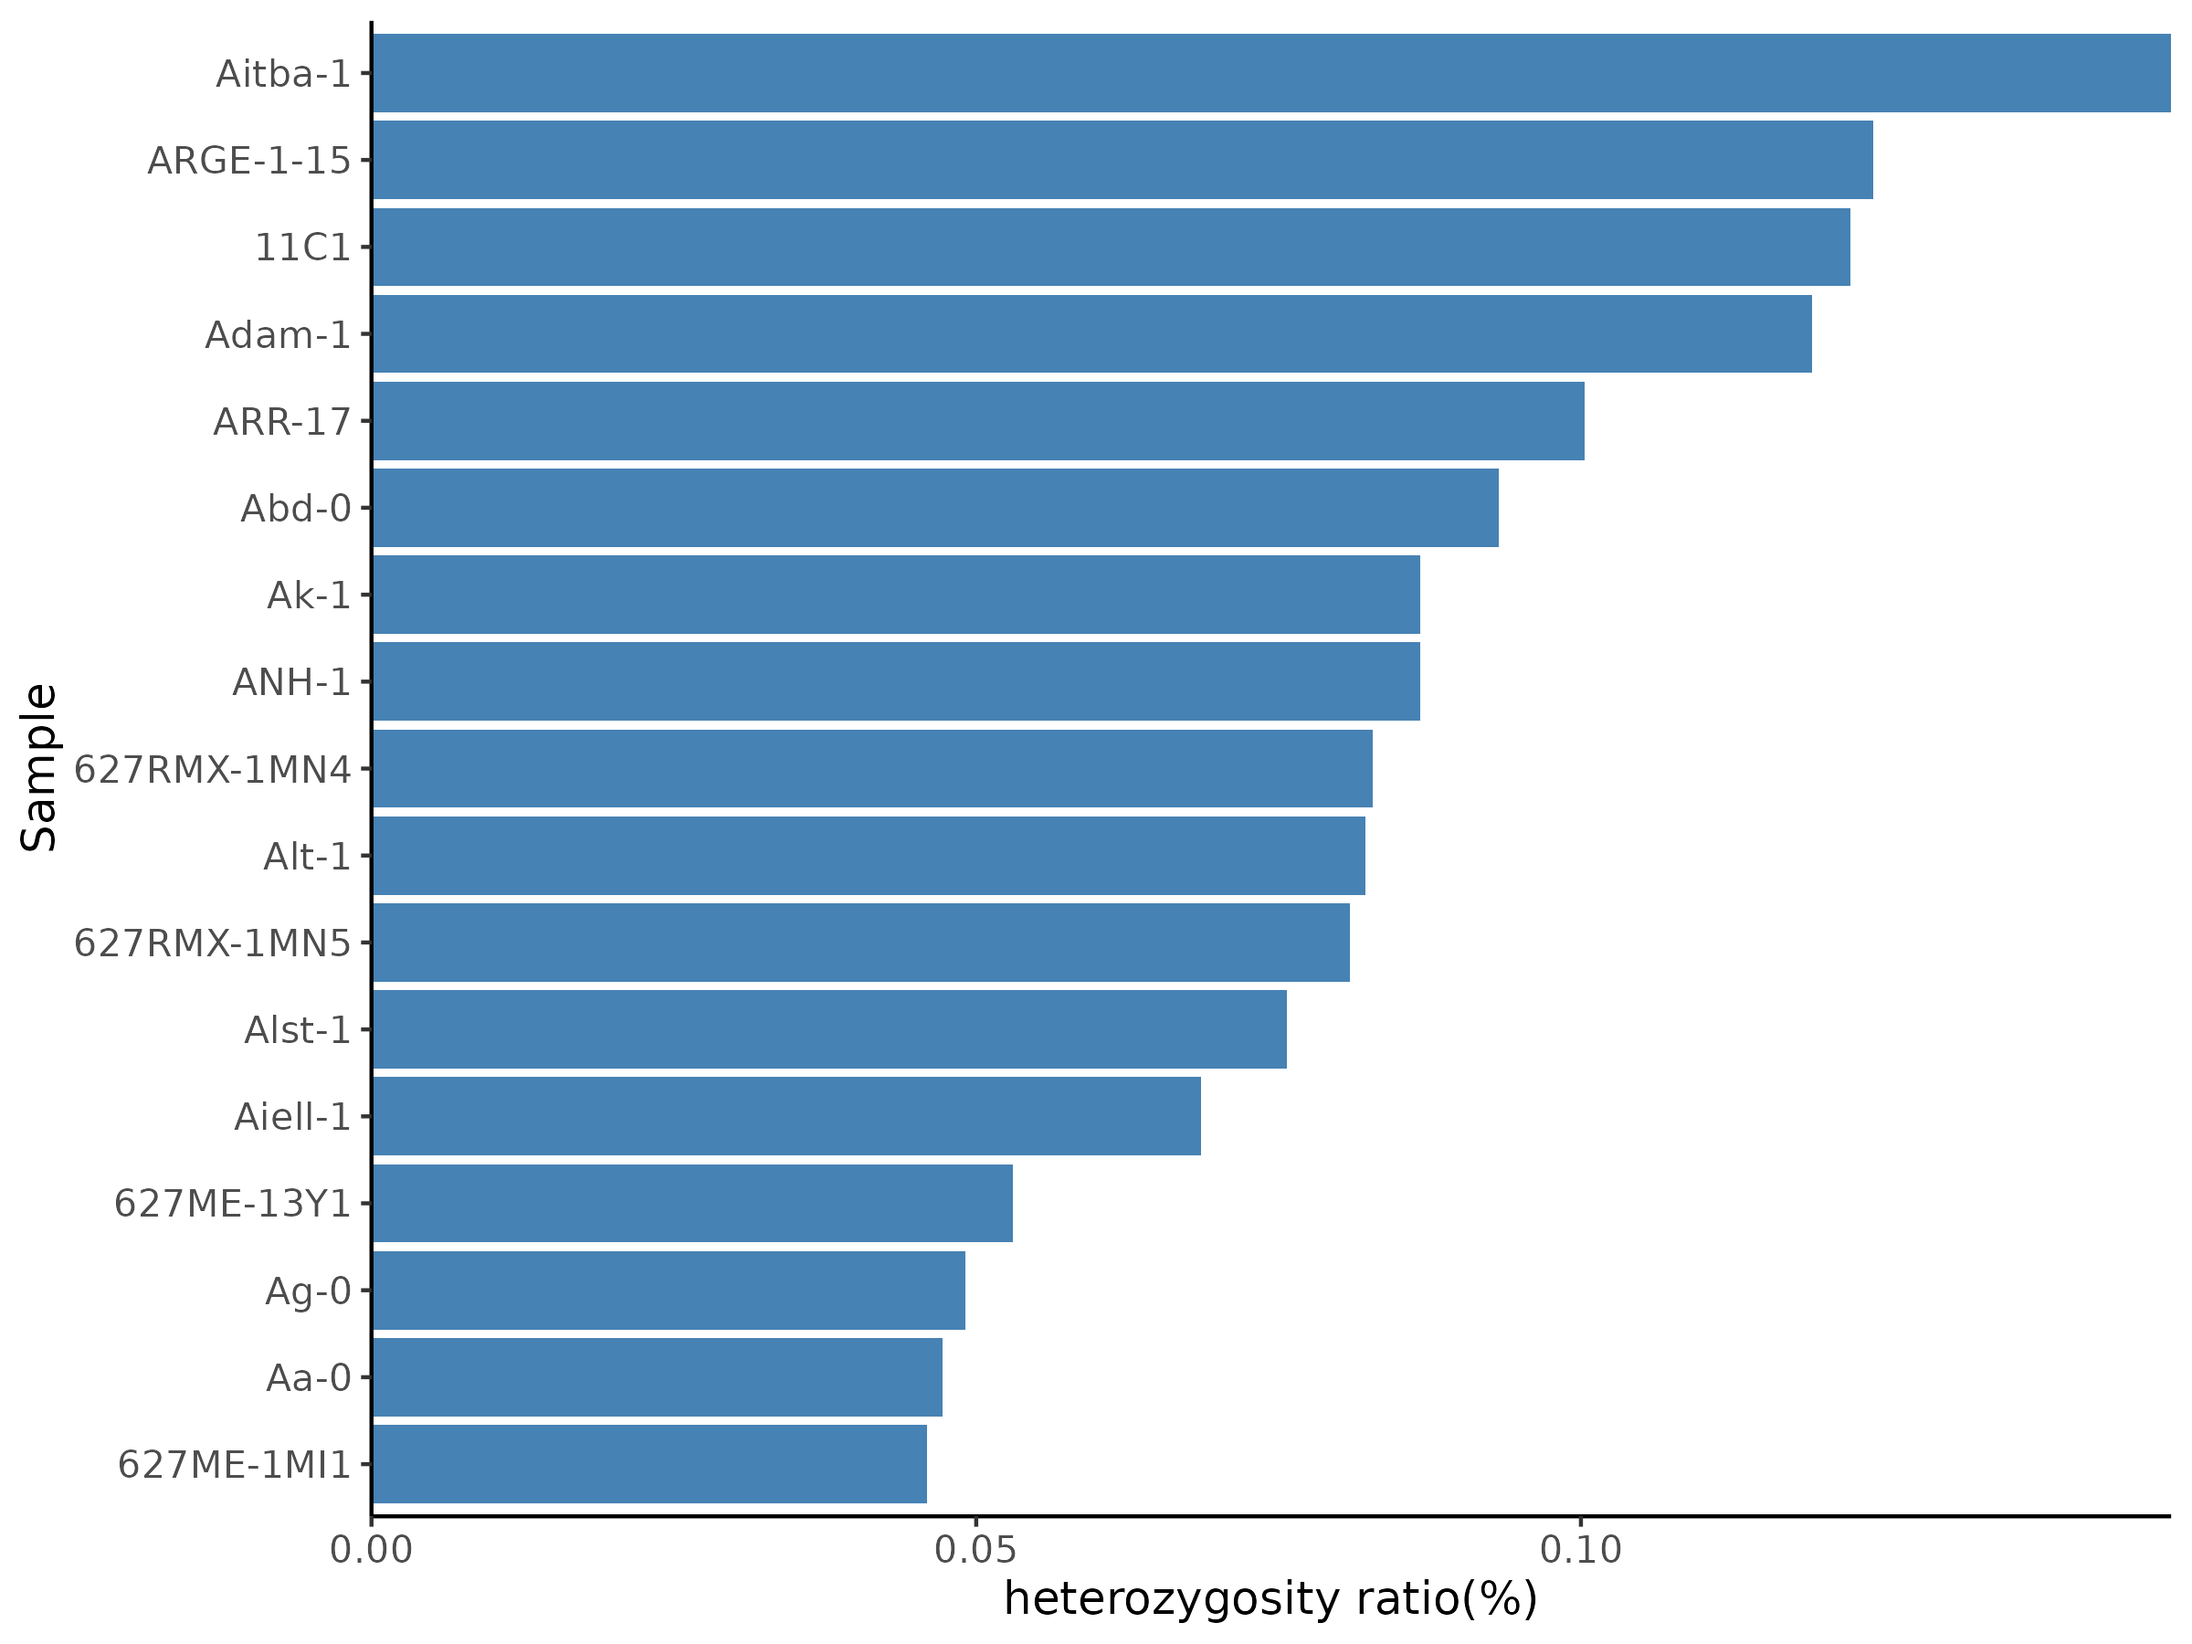
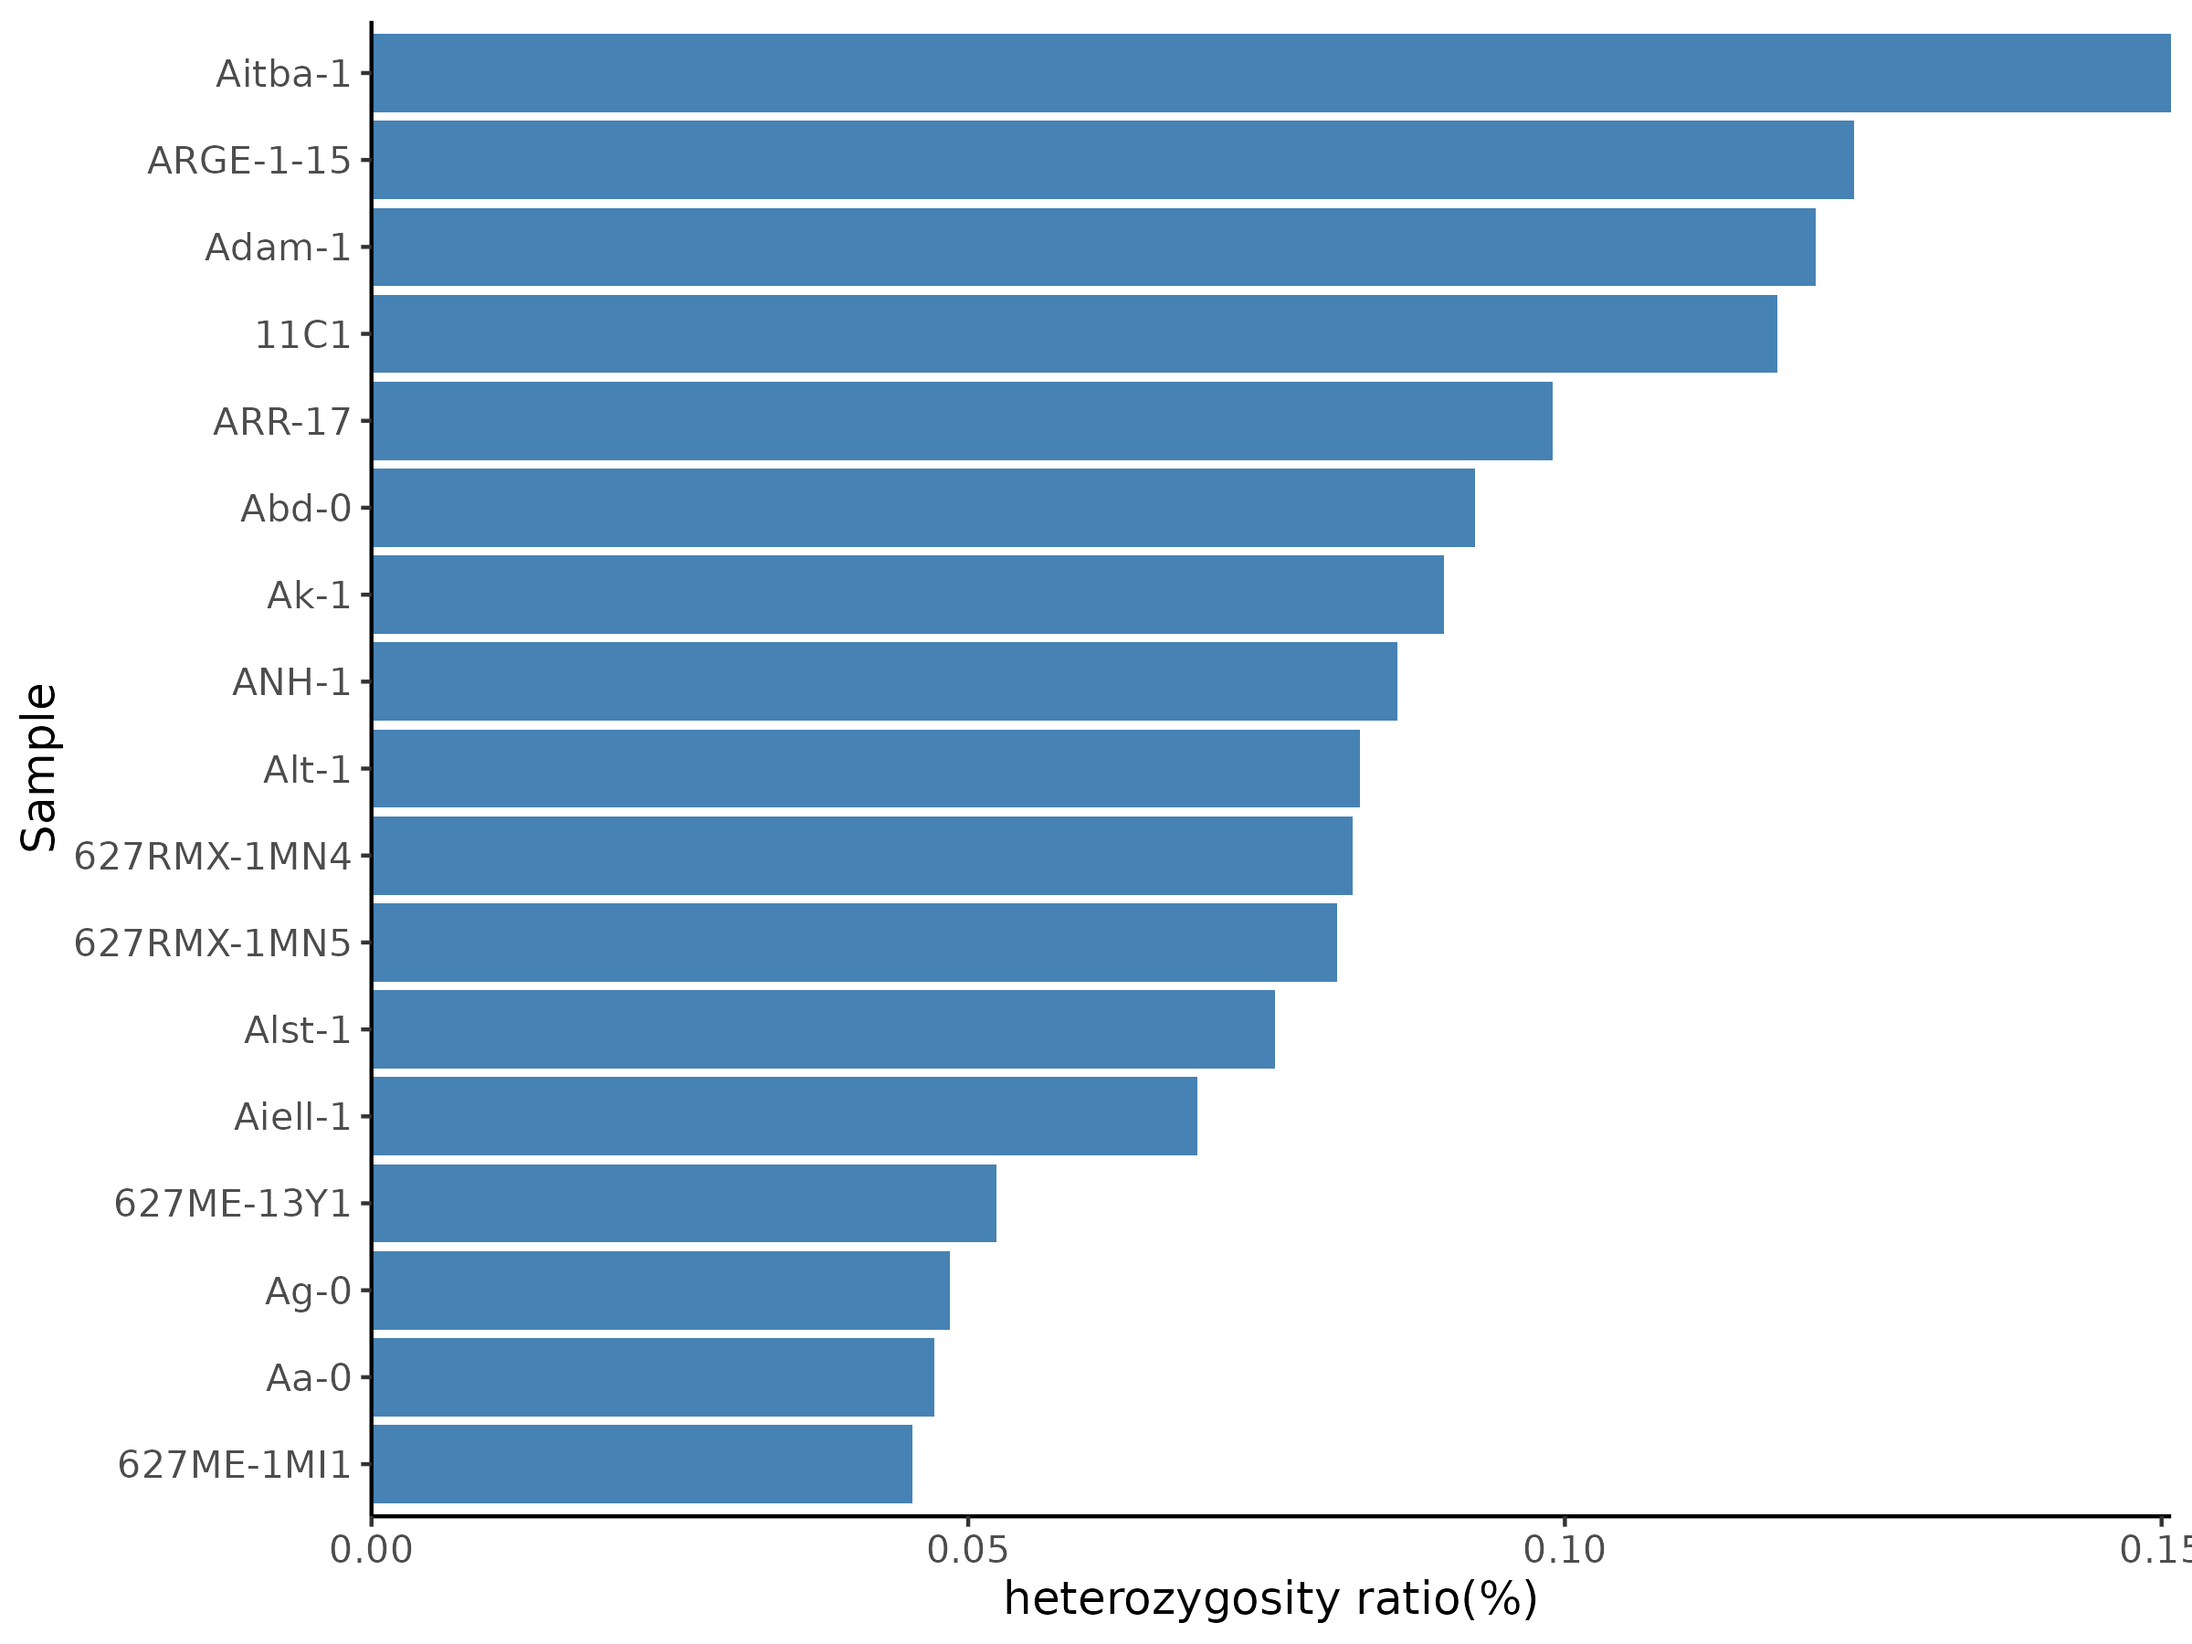
modified

diff --git a/progeny_heterozygosity.md b/progeny_heterozygosity.md
@@ -58,7 +58,7 @@ cat ena_info.ascp.sh |
 ```
 cd ~/data/plastid/Atha_cross/
 
-export FOLD=2
+export FOLD=8
 export GENOME_SIZE=$(
     cat ~/data/plastid/genome/col0/chr.sizes |
         tsv-summarize --sum 2
@@ -247,13 +247,15 @@ cat header.txt F2_GT_matrix.tsv > F2_GT_matrix_with_header.tsv
 GENOME_SIZE=154478
 total_samples=$(cat ../opts.tsv | grep -Ev "^Sample_Col_G$|^Sample_Ler_XL_4$" | wc -l)
 current=1
-> sample_ratio_summary.tsv
-echo -e "Sample\tColRatio\tColGenome\tLerRatio\tLerGenome\tMutRatio\tMutGenome" > sample_ratio_summary.tsv
 
-
-
-cat ../opts.tsv | grep -Ev "^Sample_Col_G$|^Sample_Ler_XL_4$" | while read -r line; do
+> sample_ratio_tmp.tsv
+cat ../opts.tsv | while read -r line; do
     sample=$(echo "$line" | cut -f1)
+
+    if [[ "$sample" == "Sample_Col_G" || "$sample" == "Sample_Ler_XL_4" ]]; then
+        continue
+    fi
+
     target_col=$((current + 2))
 
     echo "[$current/$total_samples] 正在处理样本 $sample，列号 $target_col"
@@ -299,11 +301,13 @@ cat ../opts.tsv | grep -Ev "^Sample_Col_G$|^Sample_Ler_XL_4$" | while read -r li
                 printf("%s\tNA\tNA\tNA\tNA\tNA\tNA\n", sample)
             }
         }
-    ' F2_GT_matrix_with_header.tsv >> sample_ratio_summary.tsv
+    ' F2_GT_matrix_with_header.tsv >> sample_ratio_tmp.tsv
 
     current=$((current + 1))
 done
 
+echo -e "Sample\tColRatio\tColGenome\tLerRatio\tLerGenome\tMutRatio\tMutGenome" > sample_ratio_summary.tsv
+cat sample_ratio_tmp.tsv >> sample_ratio_summary.tsv
 
 echo -e "| 样本名称 | Col型比例(%) | Col基因组占比(%) | Ler型比例(%) | Ler基因组占比(%) | 突变型比例(%) | 突变基因组占比(%) |" > sample_ratio_summary.md
 echo -e "| --- | --- | --- | --- | --- | --- | --- |" >> sample_ratio_summary.md
@@ -316,14 +320,14 @@ tail -n +2 sample_ratio_summary.tsv | awk -F'\t' '{
 | --- | --- | --- | --- | --- | --- | --- |
 | Sample_14 | 100.0000 | 0.002589 | 0.0000 | 0.000000 | 0.0000 | 0.000000 |
 | Sample_18 | 100.0000 | 0.002589 | 0.0000 | 0.000000 | 0.0000 | 0.000000 |
-| Sample_19 | 50.0000 | 0.000647 | 0.0000 | 0.000000 | 50.0000 | 0.000647 |
+| Sample_19 | 75.0000 | 0.001942 | 0.0000 | 0.000000 | 25.0000 | 0.000647 |
 | Sample_20 | 100.0000 | 0.001295 | 0.0000 | 0.000000 | 0.0000 | 0.000000 |
 | Sample_21 | 66.6667 | 0.001295 | 0.0000 | 0.000000 | 33.3333 | 0.000647 |
 | Sample_4 | 100.0000 | 0.001942 | 0.0000 | 0.000000 | 0.0000 | 0.000000 |
 | Sample_5 | 100.0000 | 0.002589 | 0.0000 | 0.000000 | 0.0000 | 0.000000 |
 | Sample_6 | 0.0000 | 0.000000 | 100.0000 | 0.000647 | 0.0000 | 0.000000 |
 | Sample_7 | 75.0000 | 0.001942 | 0.0000 | 0.000000 | 25.0000 | 0.000647 |
-| Sample_8 | 100.0000 | 0.001295 | 0.0000 | 0.000000 | 0.0000 | 0.000000 |
+| Sample_8 | 100.0000 | 0.001942 | 0.0000 | 0.000000 | 0.0000 | 0.000000 |
 | Sample_c1c2 | 100.0000 | 0.002589 | 0.0000 | 0.000000 | 0.0000 | 0.000000 |
 | Sample_c41 | 100.0000 | 0.003237 | 0.0000 | 0.000000 | 0.0000 | 0.000000 |
 | Sample_c42 | 66.6667 | 0.001295 | 0.0000 | 0.000000 | 33.3333 | 0.000647 |
@@ -331,23 +335,23 @@ tail -n +2 sample_ratio_summary.tsv | awk -F'\t' '{
 | Sample_c47 | 100.0000 | 0.001295 | 0.0000 | 0.000000 | 0.0000 | 0.000000 |
 | Sample_c48 | 80.0000 | 0.002589 | 0.0000 | 0.000000 | 20.0000 | 0.000647 |
 | Sample_c51 | 100.0000 | 0.001295 | 0.0000 | 0.000000 | 0.0000 | 0.000000 |
-| Sample_c52 | 100.0000 | 0.003237 | 0.0000 | 0.000000 | 0.0000 | 0.000000 |
+| Sample_c52 | 100.0000 | 0.003884 | 0.0000 | 0.000000 | 0.0000 | 0.000000 |
 | Sample_c54 | 100.0000 | 0.002589 | 0.0000 | 0.000000 | 0.0000 | 0.000000 |
-| Sample_c57 | 100.0000 | 0.001295 | 0.0000 | 0.000000 | 0.0000 | 0.000000 |
-| Sample_c61 | 80.0000 | 0.002589 | 0.0000 | 0.000000 | 20.0000 | 0.000647 |
-| Sample_c62 | 100.0000 | 0.000647 | 0.0000 | 0.000000 | 0.0000 | 0.000000 |
+| Sample_c57 | 100.0000 | 0.001942 | 0.0000 | 0.000000 | 0.0000 | 0.000000 |
+| Sample_c61 | 83.3333 | 0.003237 | 0.0000 | 0.000000 | 16.6667 | 0.000647 |
+| Sample_c62 | 50.0000 | 0.000647 | 0.0000 | 0.000000 | 50.0000 | 0.000647 |
 | Sample_c63 | 100.0000 | 0.002589 | 0.0000 | 0.000000 | 0.0000 | 0.000000 |
-| Sample_c64 | 80.0000 | 0.002589 | 0.0000 | 0.000000 | 20.0000 | 0.000647 |
-| Sample_c65 | 0.0000 | 0.000000 | 50.0000 | 0.000647 | 50.0000 | 0.000647 |
+| Sample_c64 | 75.0000 | 0.001942 | 0.0000 | 0.000000 | 25.0000 | 0.000647 |
+| Sample_c65 | 33.3333 | 0.000647 | 33.3333 | 0.000647 | 33.3333 | 0.000647 |
 | Sample_c66 | 100.0000 | 0.001942 | 0.0000 | 0.000000 | 0.0000 | 0.000000 |
-| Sample_c73 | 75.0000 | 0.001942 | 0.0000 | 0.000000 | 25.0000 | 0.000647 |
-| Sample_c81 | 100.0000 | 0.002589 | 0.0000 | 0.000000 | 0.0000 | 0.000000 |
+| Sample_c73 | 80.0000 | 0.002589 | 0.0000 | 0.000000 | 20.0000 | 0.000647 |
+| Sample_c81 | 100.0000 | 0.001942 | 0.0000 | 0.000000 | 0.0000 | 0.000000 |
 | Sample_c82 | 100.0000 | 0.000647 | 0.0000 | 0.000000 | 0.0000 | 0.000000 |
 | Sample_c83 | 50.0000 | 0.000647 | 0.0000 | 0.000000 | 50.0000 | 0.000647 |
-| Sample_c84 | 100.0000 | 0.001295 | 0.0000 | 0.000000 | 0.0000 | 0.000000 |
+| Sample_c84 | 100.0000 | 0.001942 | 0.0000 | 0.000000 | 0.0000 | 0.000000 |
 | Sample_c85 | 100.0000 | 0.002589 | 0.0000 | 0.000000 | 0.0000 | 0.000000 |
 | Sample_c87 | 80.0000 | 0.002589 | 0.0000 | 0.000000 | 20.0000 | 0.000647 |
-| Sample_c88 | 100.0000 | 0.001942 | 0.0000 | 0.000000 | 0.0000 | 0.000000 |
+| Sample_c88 | 100.0000 | 0.002589 | 0.0000 | 0.000000 | 0.0000 | 0.000000 |
 | Sample_c89 | 0.0000 | 0.000000 | 0.0000 | 0.000000 | 100.0000 | 0.000647 |
 | Sample_c90 | 100.0000 | 0.001295 | 0.0000 | 0.000000 | 0.0000 | 0.000000 |
 | Sample_c91 | 100.0000 | 0.000647 | 0.0000 | 0.000000 | 0.0000 | 0.000000 |
@@ -359,7 +363,6 @@ tail -n +2 sample_ratio_summary.tsv | awk -F'\t' '{
 | Sample_l2l3 | 5.7692 | 0.001942 | 80.7692 | 0.027188 | 13.4615 | 0.004531 |
 | Sample_l4c1 | 2.0000 | 0.000647 | 90.0000 | 0.029130 | 8.0000 | 0.002589 |
 | Sample_l4l3 | 7.4074 | 0.002589 | 83.3333 | 0.029130 | 9.2593 | 0.003237 |
-
 ```
 library(ggplot2)
 library(tidyr)

diff --git a/Brassicaceae/Atha_cross.md b/Brassicaceae/Atha_cross.md
@@ -644,6 +644,92 @@ awk -v OFS='\t' '
     }
 ' F2_GT_matrix_with_header.tsv
 ```
+```
+total_samples=$(cat ../opts.tsv | grep -Ev "^Sample_Col_G$|^Sample_Ler_XL_4$" | wc -l)
+current=1
+
+cat ../opts.tsv | grep -Ev "^Sample_Col_G$|^Sample_Ler_XL_4$" | while read -r line; do
+    sample=$(echo "$line" | cut -f1)
+    target_col=$((current + 2))  # 列号 = 样本序号 + 2 (跳过CHROM和POS列)
+    
+    echo "[$current/$total_samples] 正在处理样本 $sample，列号 $target_col"
+    
+    awk -v OFS='\t' -v target_col="$target_col" -v sample_name="$sample" '
+        BEGIN {
+            while ((getline < "informative_sites.tsv") > 0) {
+                key = $1":"$2
+                col_gt[key] = $5
+                ler_gt[key] = $6
+            }
+
+            count_col = count_ler = count_mut = total = 0
+            print "CHROM_POS", sample_name > "classification_matrix_" sample_name ".tsv"
+        }
+
+        NR > 1 {
+            key = $1":"$2
+            gt = $target_col
+            col = col_gt[key]
+            ler = ler_gt[key]
+            
+            if (gt == "./.") {
+                label = "NA"
+                print key, label >> "classification_matrix_" sample_name ".tsv"
+                next
+            }
+            
+            if (gt == col) {
+                label = "Col"
+                count_col++
+            } else if (gt == ler) {
+                label = "Ler"
+                count_ler++
+            } else {
+                label = "Mut"
+                count_mut++
+            }
+            
+            total++
+            print key, label >> "classification_matrix_" sample_name ".tsv"
+        }
+
+        END {
+            print "来源分类比例：" > "summary_" sample_name ".txt"
+            if (total > 0) {
+                print "Col型\t" count_col "\t" count_col / total * 100 "%" >> "summary_" sample_name ".txt"
+                print "Ler型\t" count_ler "\t" count_ler / total * 100 "%" >> "summary_" sample_name ".txt"
+                print "突变型\t" count_mut "\t" count_mut / total * 100 "%" >> "summary_" sample_name ".txt"
+            } else {
+                print "无有效基因型参与分类" >> "summary_" sample_name ".txt"
+            }
+        }
+    ' F2_GT_matrix_with_header.tsv
+    
+    current=$((current + 1))
+done
+
+echo -e "样本名称\tCol型比例(%)\tLer型比例(%)\t突变型比例(%)" > sample_ratio_summary.tsv
+samples=$(cat ../opts.tsv | cut -f1 | grep -Ev "^Sample_Col_G$|^Sample_Ler_XL_4$")
+
+for sample in $samples; do
+    if [ -f "summary_${sample}.txt" ]; then
+        col_ratio=$(grep "Col型" "summary_${sample}.txt" | awk '{print $3}')
+        ler_ratio=$(grep "Ler型" "summary_${sample}.txt" | awk '{print $3}')
+        mut_ratio=$(grep "突变型" "summary_${sample}.txt" | awk '{print $3}')
+        
+        echo -e "$sample\t$col_ratio\t$ler_ratio\t$mut_ratio" >> sample_ratio_summary.tsv
+    else
+        echo "警告: 样本 $sample 的统计文件不存在，跳过"
+    fi
+done
+
+echo -e "| 样本名称 | Col型比例(%) | Ler型比例(%) | 突变型比例(%) |" > sample_ratio_summary.md
+echo -e "| --- | --- | --- | --- |" >> sample_ratio_summary.md
+
+tail -n +2 sample_ratio_summary.tsv | awk -F'\t' '{
+    printf("| %s | %s | %s | %s |\n", $1, $2, $3, $4);
+}' >> sample_ratio_summary.md
+```
 ## rdp4 analysis
 ```
 bcftools consensus -f c44/1_genome/genome.fa c44/3_gatk/R.filtered.vcf.gz > c44_chrC.fa

diff --git a/wild_Arabidopsis_heterogeneity.md b/wild_Arabidopsis_heterogeneity.md
@@ -111,7 +111,7 @@ rsync -avP \
 ```
 # Symlink
 ```
-export FOLD=2
+export FOLD=8
 export GENOME_SIZE=$(
     cat ~/data/plastid/genome/col0/chr.sizes |
         tsv-summarize --sum 2
@@ -209,12 +209,13 @@ cat opts.tsv |
         bsub -q mpi -n 24 -J "{1}" "
             bash 0_script/2_fastqc.sh
             bash 0_script/2_insert_size.sh
-            bash 0_script/2_kat.sh
+            bash 0_script/2_fastk.sh
             bash 0_script/2_trim.sh
             bash 0_script/9_stat_reads.sh
             bash 0_script/3_bwa.sh
             bash 0_script/3_gatk.sh
         "
+    '
 ```
 # heterogeneity
 ```
@@ -276,23 +277,23 @@ tail -n +2 sample_heterozygosity_summary.tsv | awk -F'\t' '{printf("| %s | %s | 
 ```
 | 样本名称 | 异质位点数 | 比例(%) |
 | --- | --- | --- |
-| 11C1 | 189 | 0.122300 |
-| 627ME-13Y1 | 82 | 0.053000 |
-| 627ME-1MI1 | 71 | 0.045900 |
-| 627RMX-1MN4 | 128 | 0.082800 |
+| 11C1 | 182 | 0.117800 |
+| 627ME-13Y1 | 81 | 0.052400 |
+| 627ME-1MI1 | 70 | 0.045300 |
+| 627RMX-1MN4 | 127 | 0.082200 |
 | 627RMX-1MN5 | 125 | 0.080900 |
-| ANH-1 | 134 | 0.086700 |
+| ANH-1 | 133 | 0.086000 |
 | ARGE-1-15 | 192 | 0.124200 |
-| ARR-17 | 155 | 0.100300 |
+| ARR-17 | 153 | 0.099000 |
 | Aa-0 | 73 | 0.047200 |
-| Abd-0 | 144 | 0.093200 |
-| Adam-1 | 184 | 0.119100 |
-| Ag-0 | 76 | 0.049100 |
-| Aiell-1 | 106 | 0.068600 |
-| Aitba-1 | 230 | 0.148800 |
-| Ak-1 | 134 | 0.086700 |
+| Abd-0 | 143 | 0.092500 |
+| Adam-1 | 187 | 0.121000 |
+| Ag-0 | 75 | 0.048500 |
+| Aiell-1 | 107 | 0.069200 |
+| Aitba-1 | 233 | 0.150800 |
+| Ak-1 | 139 | 0.089900 |
 | Alst-1 | 117 | 0.075700 |
-| Alt-1 | 127 | 0.082200 |
+| Alt-1 | 128 | 0.082800 |
 ```
 library(ggplot2)
 library(readr)
